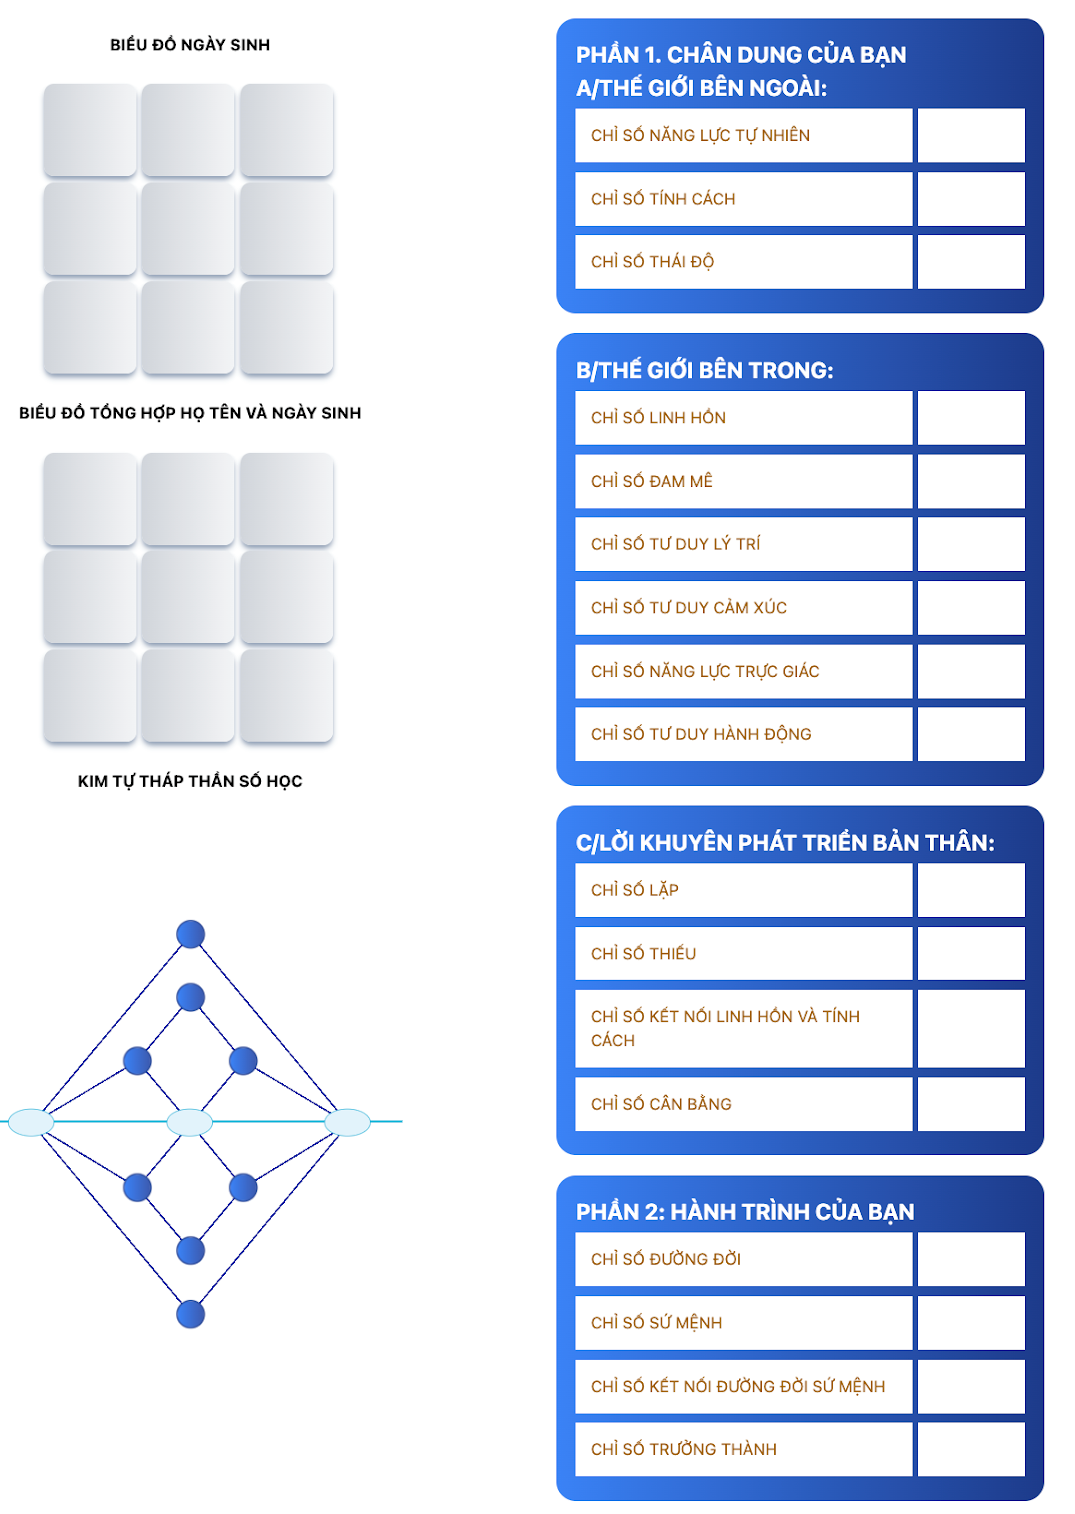
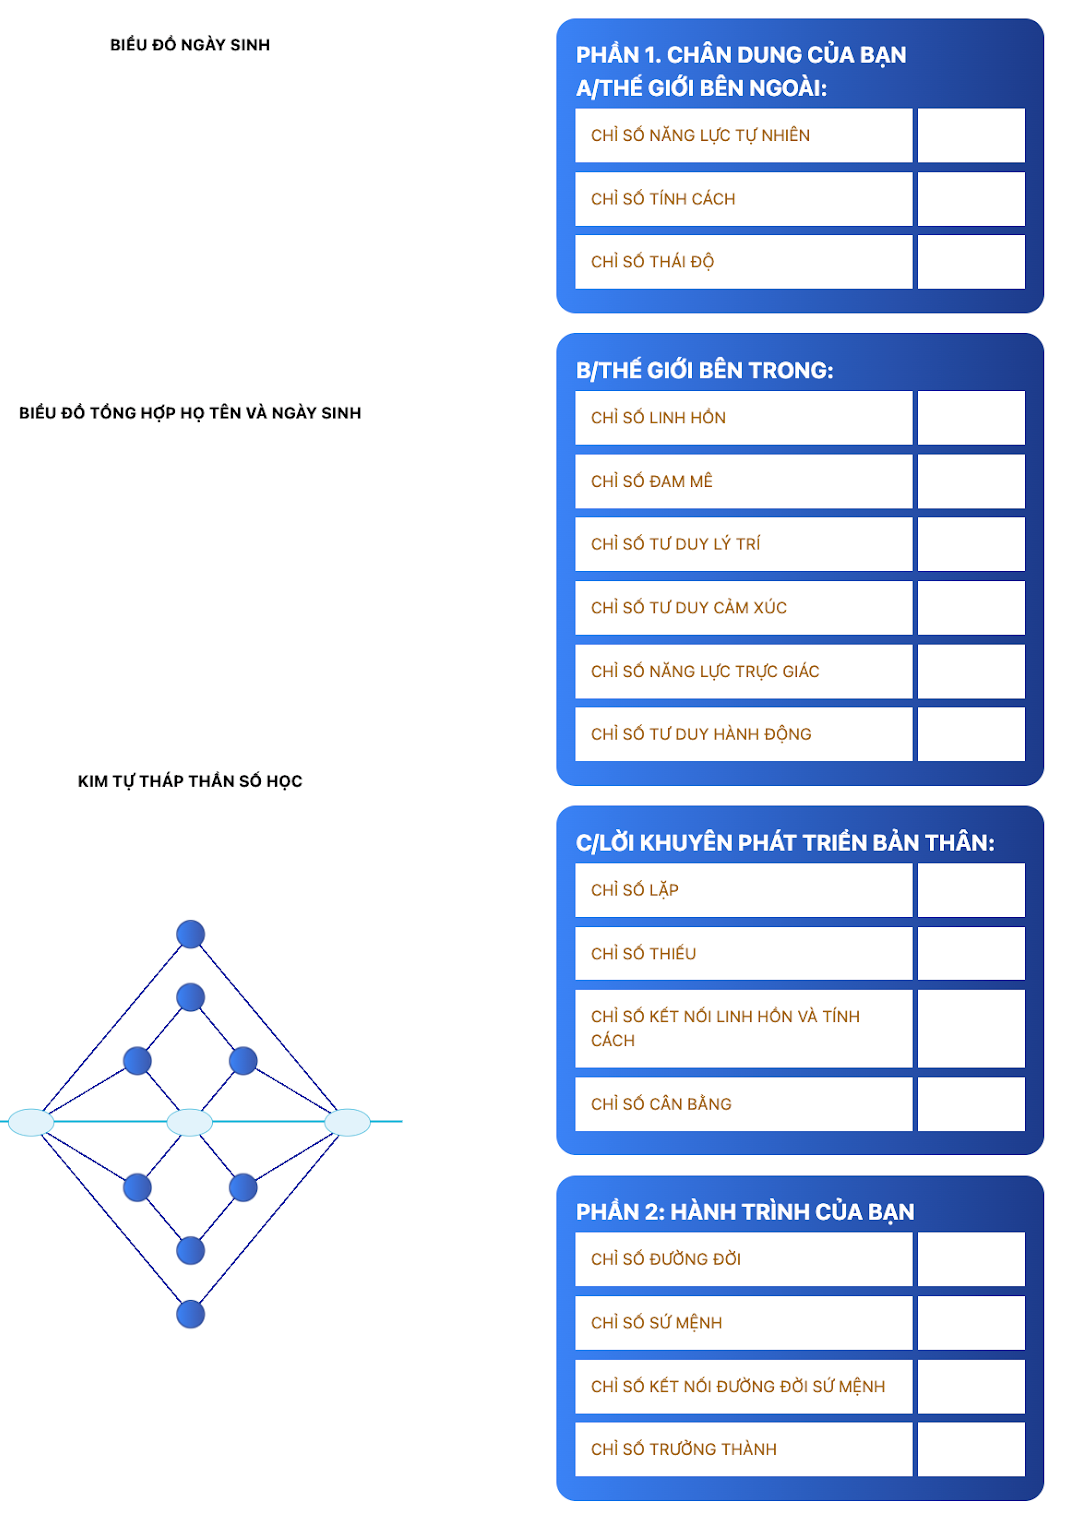
fix for report table

Changed region(s): [[0.0307, 0.2794, 0.307, 0.4967], [0.0307, 0.031, 0.307, 0.2483]]

diff --git a/public/pdf.css b/public/pdf.css
@@ -8388,10 +8388,27 @@ body {
     padding: 0 10px;
     width: auto;
     max-width: unset;
+    text-align: center;
 }
 .pdf7-table tr td:last-child {
     border-right: 0;
 }
 .pdf7-table tr:last-child td {
     border-bottom: 0;
+}
+.report-table {
+    border-spacing: 15px;
+}
+.report-table tr {
+
+}
+.report-table tr td {
+    border-radius: 10px;
+    box-shadow: 5px 5px 9px 3px #b8c1cf;
+    background: rgb(214,218,223);
+    background: linear-gradient(90deg, rgba(214,218,223,1) 0%, rgba(240,241,243,1) 90%);
+    min-width: 70px;
+    white-space: nowrap;
+    text-align: center;
+    padding: 40px 30px;
 }

diff --git a/resources/views/web/welcome.blade.php b/resources/views/web/welcome.blade.php
@@ -1939,44 +1939,7 @@
                 <img src="{{ asset('/' . $path . '/report.png') }}" alt="" width="2000px">
             </div>
             <div>
-                <style>
-                    tr.name {
-                        height: 173px;
-                        text-align: center;
-                    }
-
-                    tr.summary {
-                        height: 173px;
-                        text-align: center;
-                    }
-
-                    tr.chiso1 {
-                        height: 126px;
-                        text-align: center;
-                    }
-
-                    tr.chiso2 {
-                        height: 118px;
-                        text-align: center;
-                    }
-
-                    tr.chiso3 {
-                        height: 118px;
-                        text-align: center;
-                    }
-
-                    tr.chiso4 {
-                        height: 118px;
-                        text-align: center;
-                    }
-
-                    td {
-                        text-align: center;
-                        width: 66px;
-                        max-width: 66px;
-                    }
-                </style>
-                <table class="t m0 x51 h14 y1c8 ff1 fsc fc7 sc0 ls0 ws0" style="left: 109px;bottom: 888px;width: 62%;height: 115px;max-width: 62%;">
+                <table class="t m0 x51 h14 y1c8 ff1 fsc fc7 sc0 ls0 ws0 report-table" style="left: 109px;bottom: 888px;width: 62%;max-width: 62%;">
                     <tr class="name">
                         <td>{{ $name->{3} ?? null }}</td>
                         <td>{{ $name->{6} ?? null }}</td>
@@ -2005,9 +1968,8 @@
                     </tr>
                 </table>
             </div>
-
             <div>
-                <table class="t m0 x51 h14 y1c8 ff1 fsc fc7 sc0 ls0 ws0" style="left: 109px;bottom: 630px;width: 62%;height: 115px;max-width: 62%;">
+                <table class="t m0 x51 h14 y1c8 ff1 fsc fc7 sc0 ls0 ws0 report-table" style="left: 109px;bottom: 630px;width: 62%;max-width: 62%;">
                     <tr class="summary">
                         <td>{{ $summary->{3} ?? null }}</td>
                         <td>{{ $summary->{6} ?? null }}</td>
